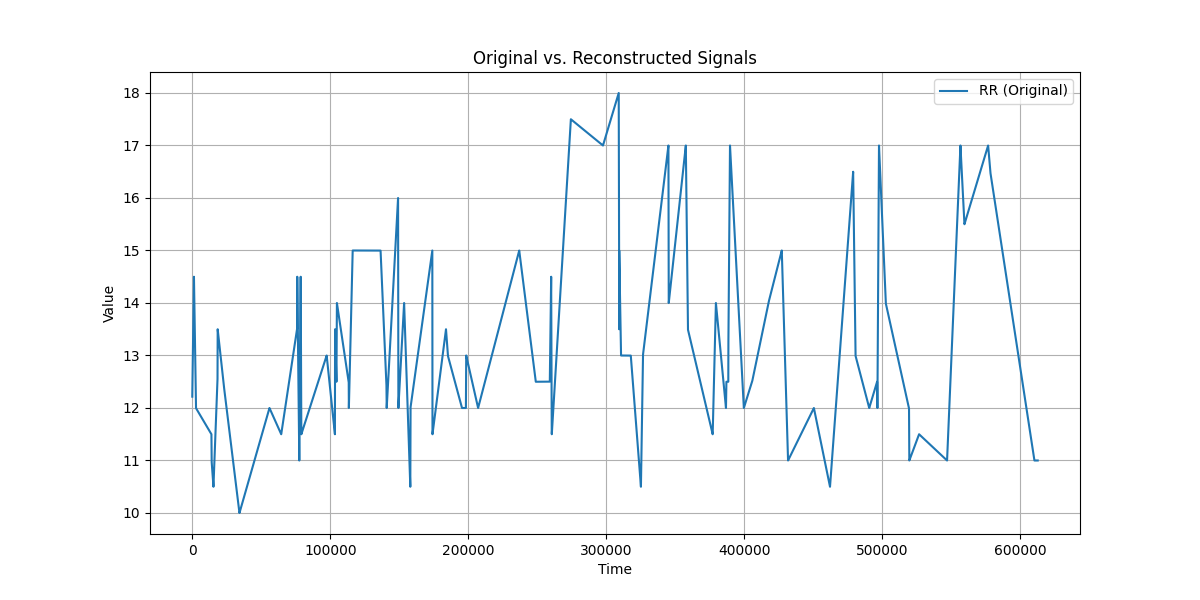
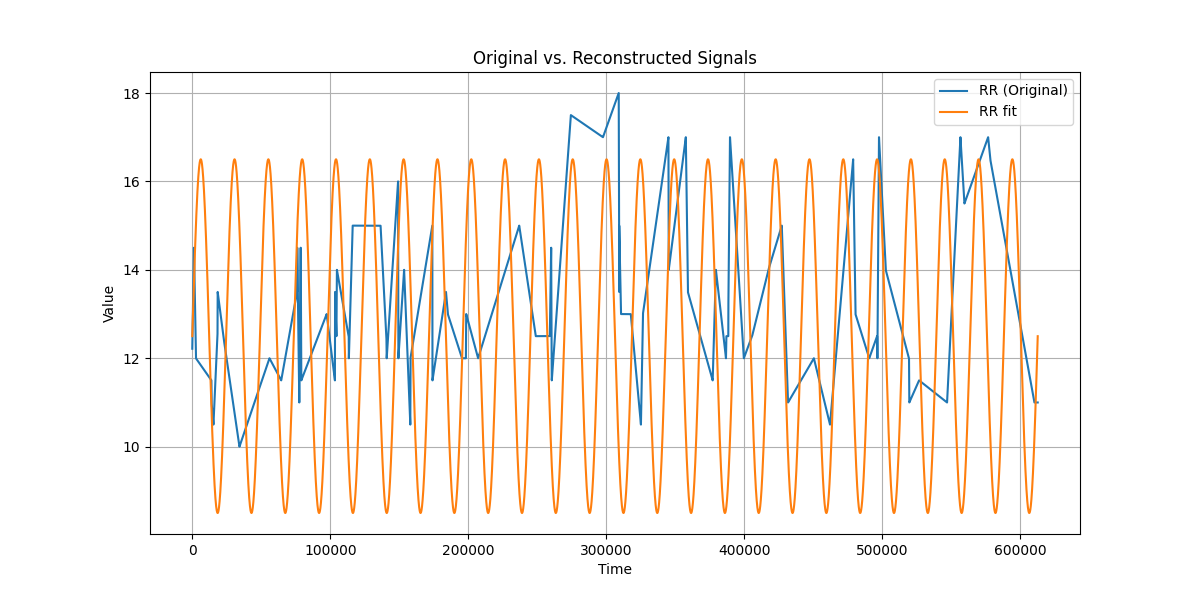
remaining values of f matrix calculated

diff --git a/CoreBodyTemp/f_deriv.py b/CoreBodyTemp/f_deriv.py
@@ -99,7 +99,17 @@ t_b= time
 #this is the estimate equation for heart rate 
 y_1 = np.abs(24 * np.sin(2 * np.pi * f_b * t_b/N_b))
 
-#parameters 
+respiratory_rate_shifted = processed_respiratory - 13.5 
+
+thirt_crossings = np.where(np.diff(np.sign(respiratory_rate_shifted)))[0]
+resp_osc = len(thirt_crossings) // 2
+print("estimated respirussy oscillations", resp_osc)
+#parameters for respiratory rate 
+N_r = len(time)
+f_r = 25
+t_r = time 
+
+y_2 = 4 * np.sin(2 * np.pi * f_r * t_r/N_r) + 12.5
 # Plot the original and reconstructed signals
 plt.figure(figsize=(12, 6))
 #plt.plot(time, processed_heart_rate, label="Heart Rate (Original)")
@@ -107,6 +117,7 @@ plt.figure(figsize=(12, 6))
 plt.plot(time, processed_respiratory, label="RR (Original)")
 #plt.plot(t_h, y, label="heart rate fit")
 #plt.plot(t_b, y_1, label="BMR fit")
+plt.plot(t_r, y_2, label="RR fit")
 plt.xlabel("Time")
 plt.ylabel("Value")
 plt.legend()
@@ -123,11 +134,12 @@ now...for finding the actual cells in the matrix.
 
 hr = 62.5 * np.cos(2 * np.pi * f_h * t_h / N_h) + 112.5
 bmr = np.abs(24 * np.sin(2 * np.pi * f_b * t_b/N_b))
+rr = 4 * np.sin(2 * np.pi * f_r * t_r/N_r) + 12.5
 
 #find gradient of each 
-
 hr_gradient = np.gradient(hr, time)
 bmr_gradient = np.gradient(bmr, time)
+rr_gradient = np.gradient (rr, time)
 
 #find derivative of heart rate w respect to BMR
 matrix_cell = np.mean(hr_gradient/bmr_gradient)
@@ -136,14 +148,14 @@ matrix_cell = np.mean(hr_gradient/bmr_gradient)
 matrix_cell_1 = np.mean(bmr_gradient/hr_gradient)
 print(matrix_cell)
 
+# find derivative of bmr w respect to rr and vice versa 
+matrix_cell_2 = np.mean(rr_gradient/bmr_gradient)
+matrix_cell_3 = np.mean(bmr_gradient/rr_gradient)
 
-matrix_cell_2
-matrix_cell_3
+# find derivative of hr w respect to rr and vice versa 
+matrix_cell_4 = np.mean(rr_gradient/hr_gradient)
+matrix_cell_5 = np.mean(hr_gradient/rr_gradient)
 
-matrix_cell_4
-matrix_cell_5
-
-matei
 
 #noah i love you pls figure out which cell is which. idk which one is hr w respect to bmr and which one is bm w respect to hr. as in cell (2, 3) vs (3, 2). 
 #non matlab order this is matlab slander. 
